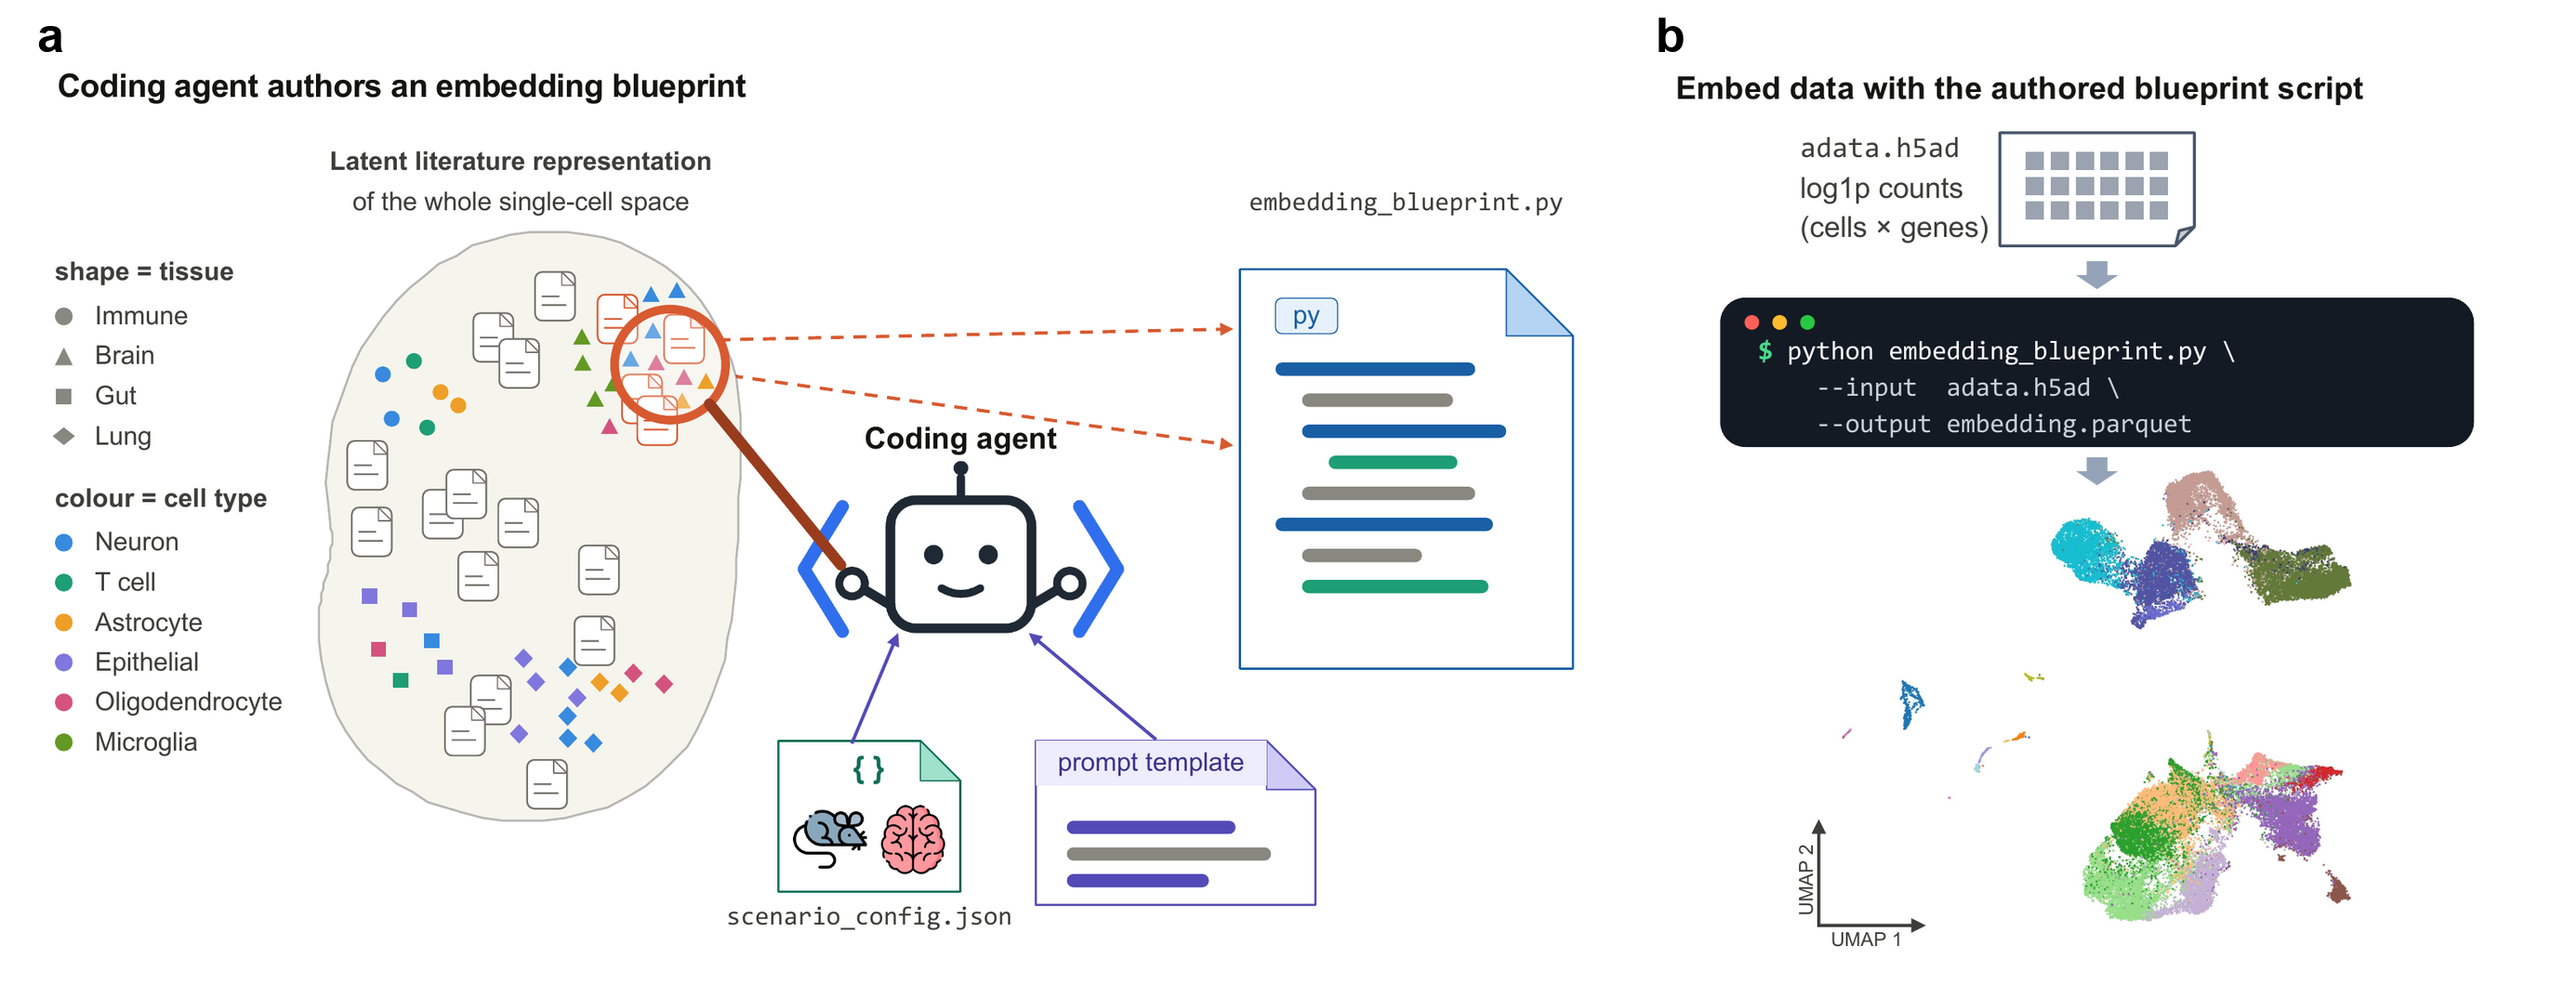
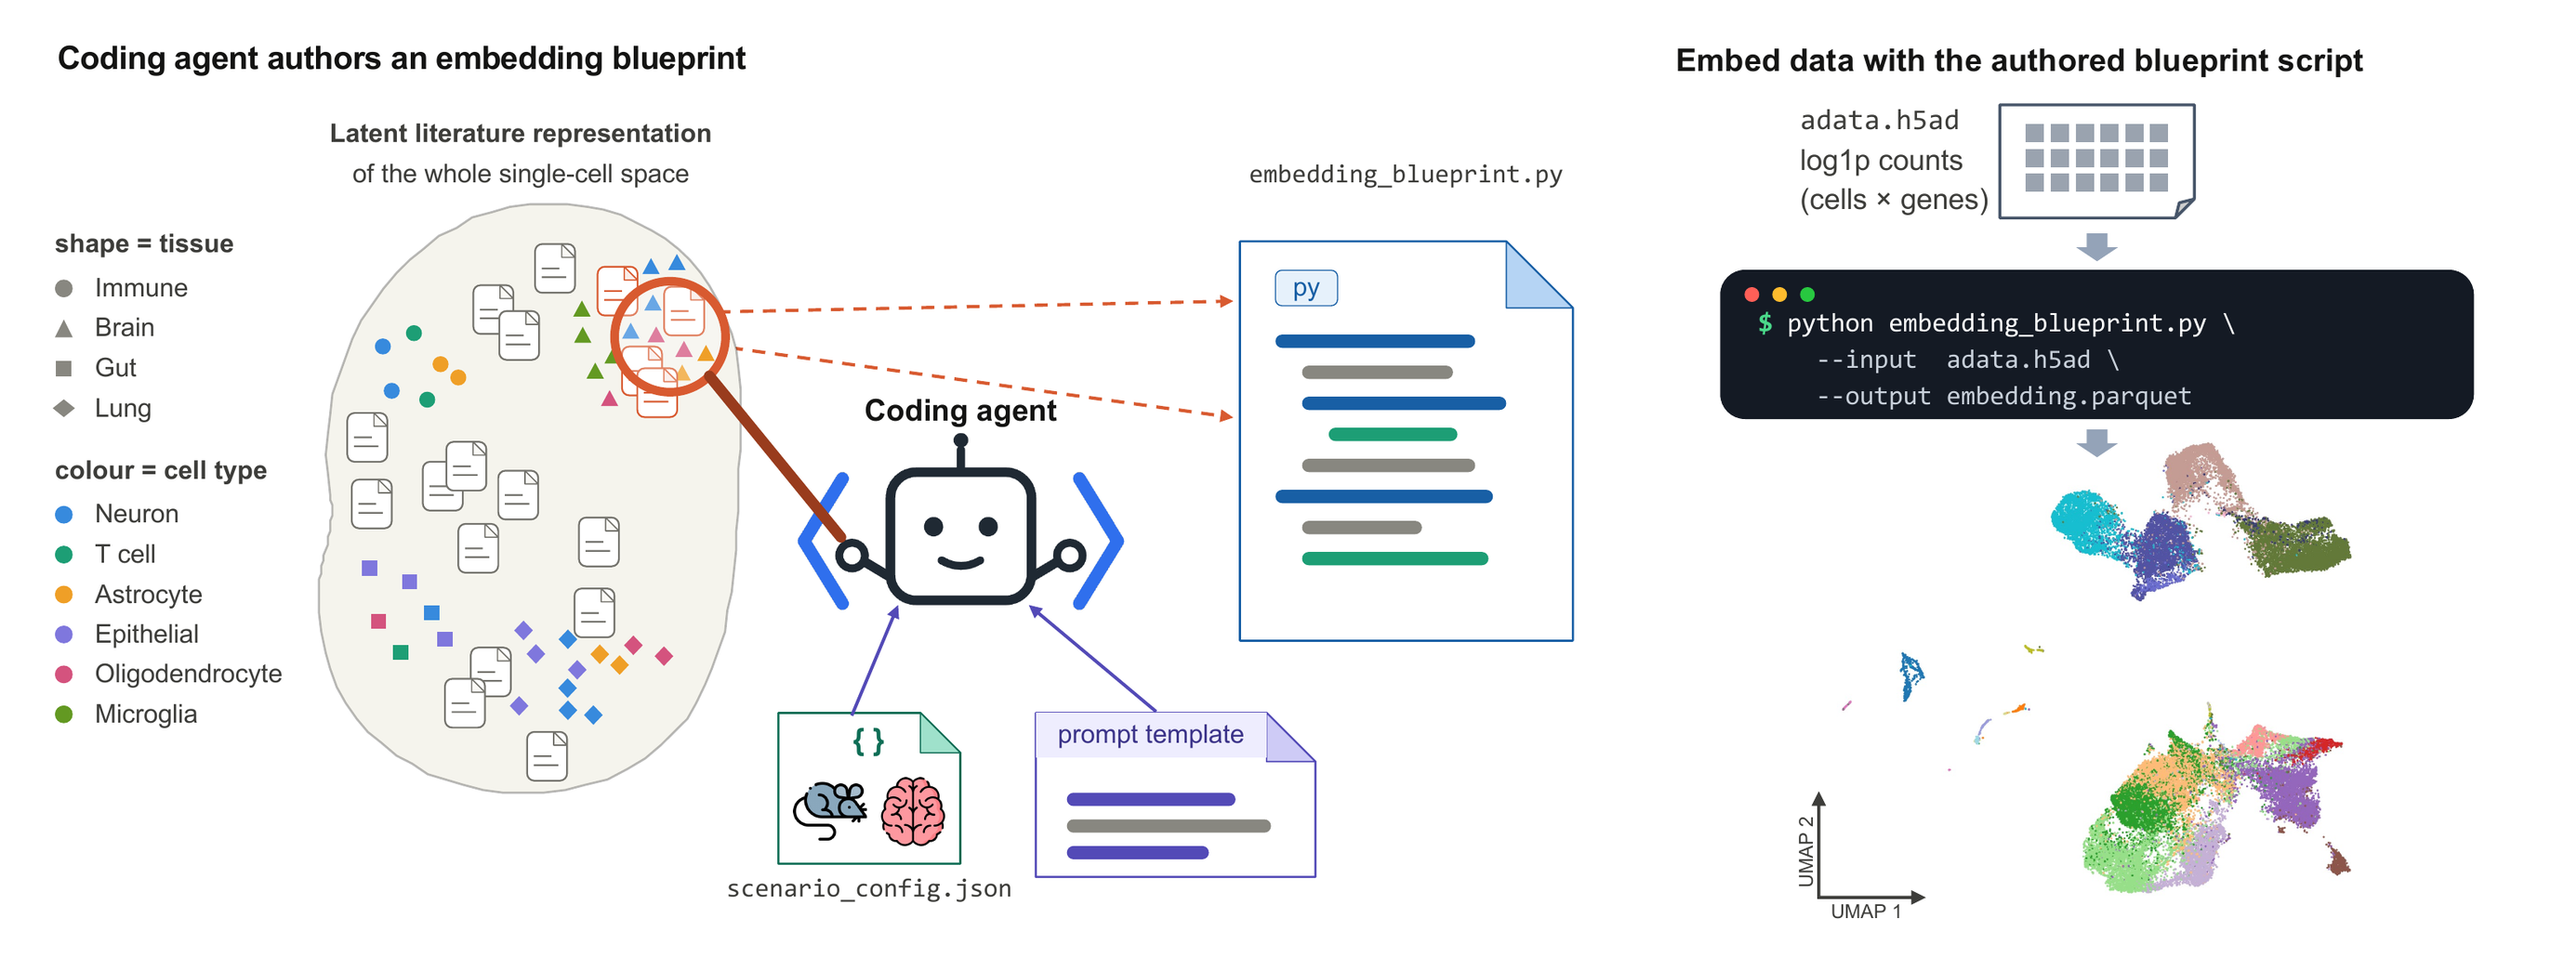
Drop panel labels from the model-overview figure

diff --git a/README.md b/README.md
@@ -11,8 +11,8 @@ The axes can also be steered into structured topologies such as a developmental 
 
 ![Overview of the blueprint workflow.](docs/img/model_overview.png)
 
-*(**a**) A coding agent edits the blueprint template to author literature-cited gene programs
-and axes, without seeing the data. (**b**) Applying the blueprint is a deterministic, CPU-only
+*Left: a coding agent edits the blueprint template to author literature-cited gene programs
+and axes, without seeing the data. Right: applying the blueprint is a deterministic, CPU-only
 pass that embeds an `.h5ad` into a cell-by-axis table. (Figure 1a,b of the manuscript.)*
 
 > **Manuscript.** This repository contains the code for *"Coding agents author interpretable
